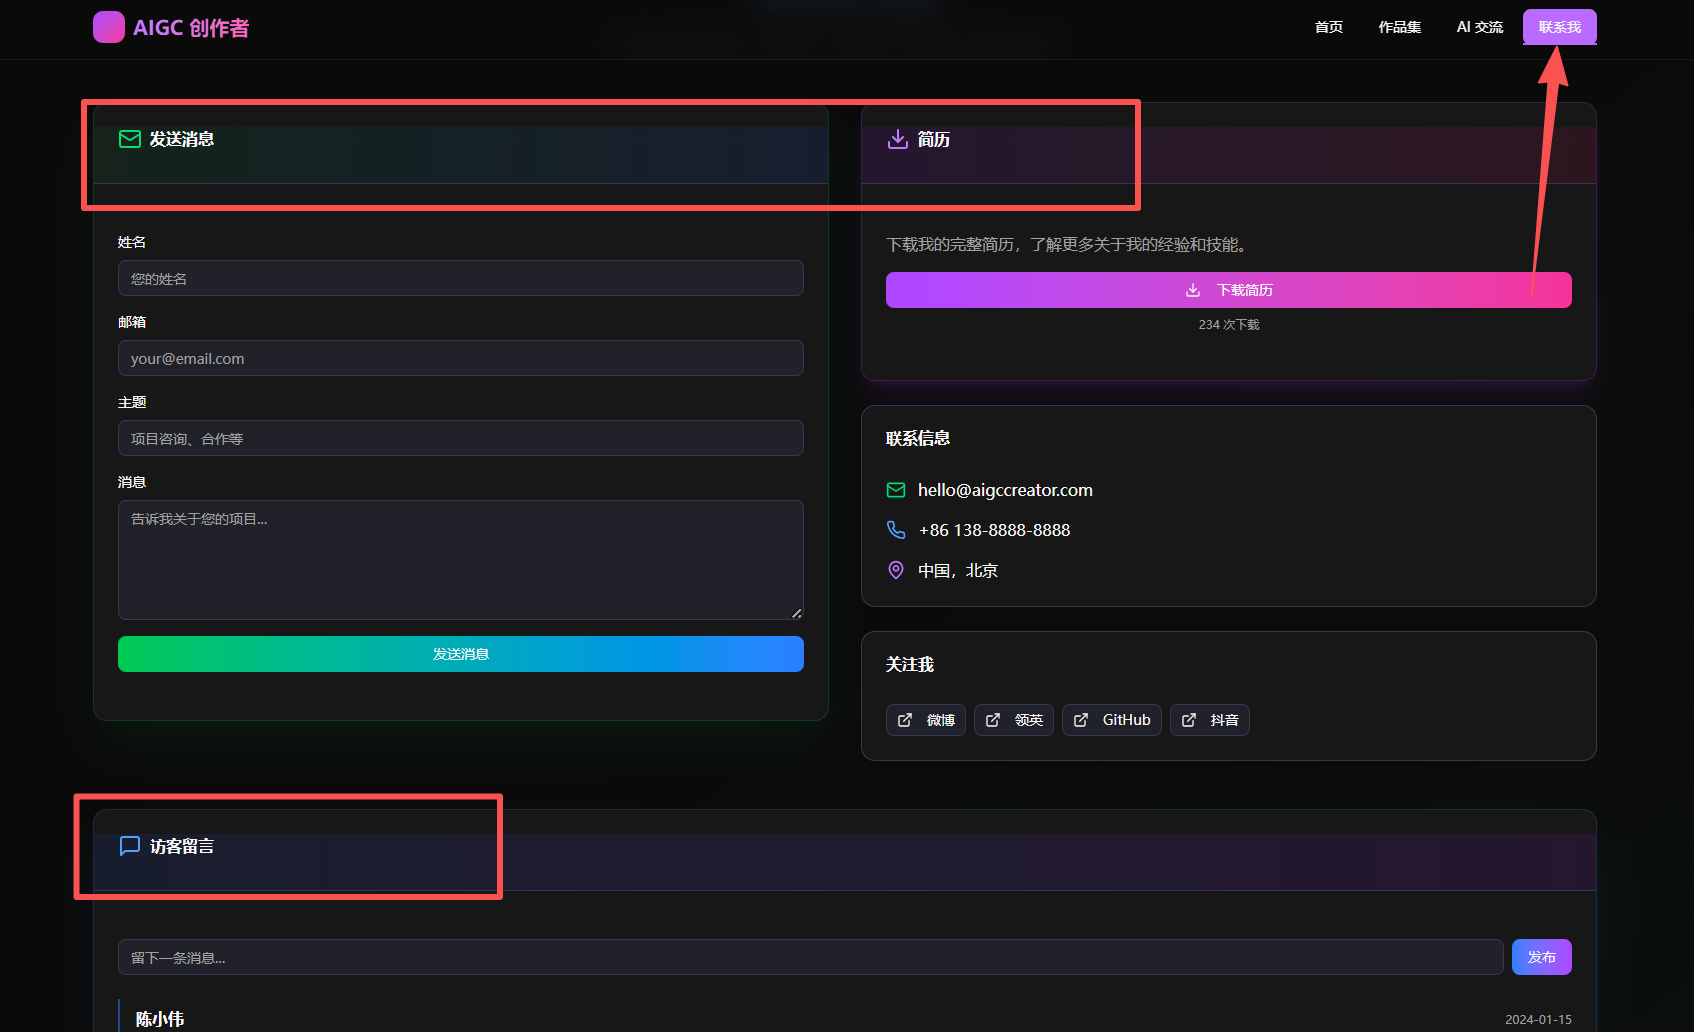
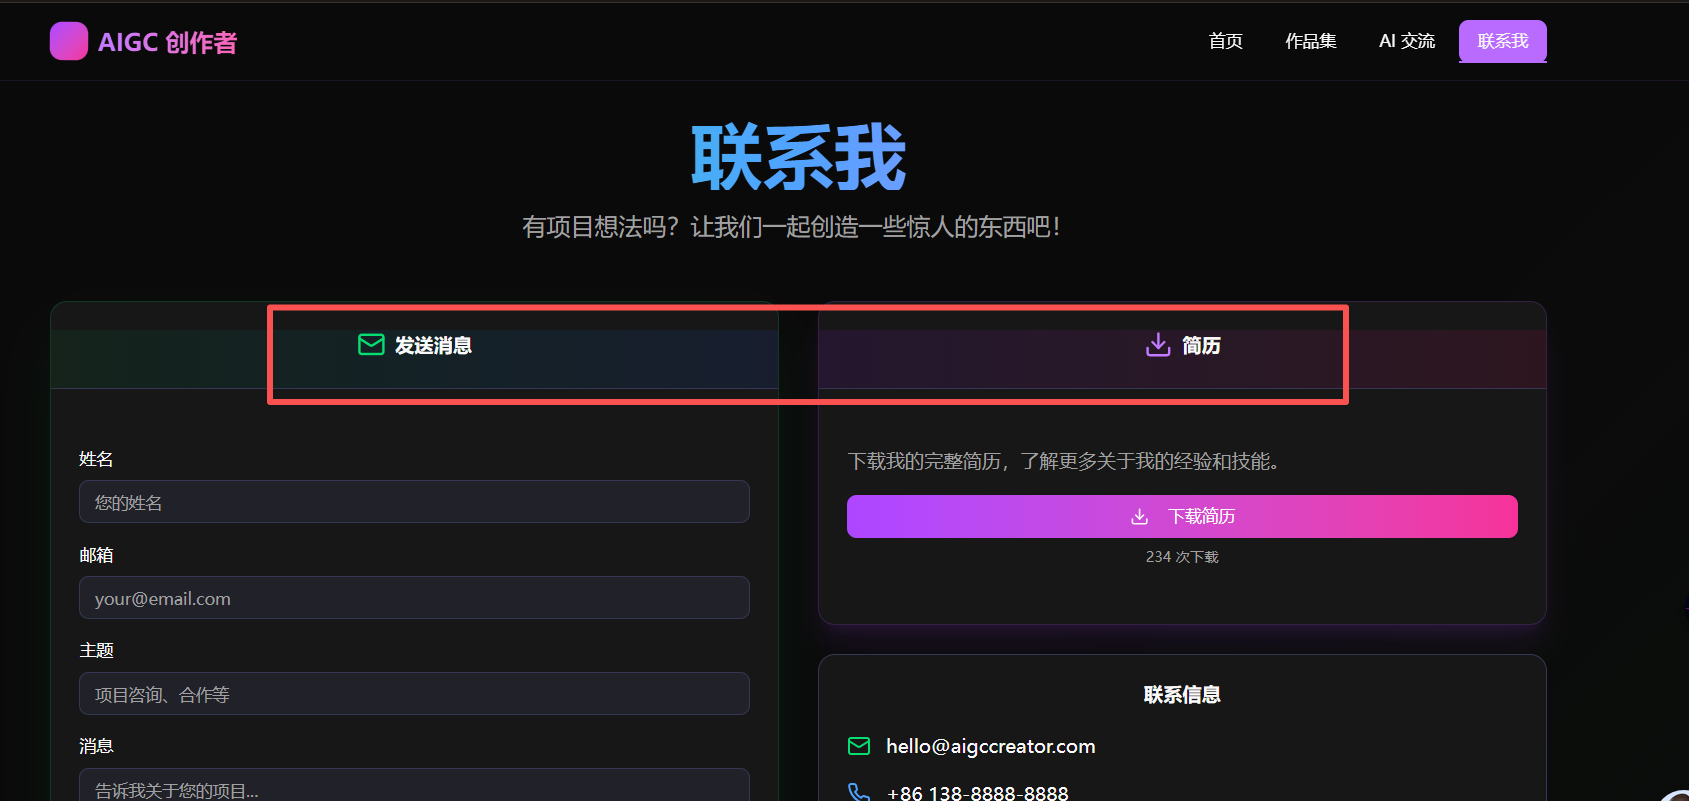
fix: 优化联系我页面所有小标题的垂直和水平居中

diff --git a/src/app/contact/page.tsx b/src/app/contact/page.tsx
@@ -85,7 +85,7 @@ export default function ContactPage() {
             transition={{ delay: 0.2 }}
           >
             <Card className="border-green-500/20 shadow-2xl shadow-green-500/10">
-              <CardHeader className="bg-gradient-to-r from-green-900/20 to-blue-900/20 border-b flex justify-center">
+              <CardHeader className="bg-gradient-to-r from-green-900/20 to-blue-900/20 border-b flex items-center justify-center">
                 <CardTitle className="flex items-center gap-2">
                   <Mail className="w-6 h-6 text-green-400" />
                   发送消息
@@ -152,7 +152,7 @@ export default function ContactPage() {
           >
             {/* Resume Download */}
             <Card className="border-purple-500/20 shadow-xl shadow-purple-500/10">
-              <CardHeader className="bg-gradient-to-r from-purple-900/20 to-pink-900/20 border-b flex justify-center">
+              <CardHeader className="bg-gradient-to-r from-purple-900/20 to-pink-900/20 border-b flex items-center justify-center">
                 <CardTitle className="flex items-center gap-2">
                   <Download className="w-6 h-6 text-purple-400" />
                   简历
@@ -177,7 +177,7 @@ export default function ContactPage() {
 
             {/* Contact Info */}
             <Card>
-              <CardHeader className="flex justify-center">
+              <CardHeader className="flex items-center justify-center">
                 <CardTitle>联系信息</CardTitle>
               </CardHeader>
               <CardContent className="space-y-4">
@@ -198,7 +198,7 @@ export default function ContactPage() {
 
             {/* Social Links */}
             <Card>
-              <CardHeader className="flex justify-center">
+              <CardHeader className="flex items-center justify-center">
                 <CardTitle>关注我</CardTitle>
               </CardHeader>
               <CardContent>
@@ -240,7 +240,7 @@ export default function ContactPage() {
           transition={{ delay: 0.4 }}
         >
           <Card className="border-blue-500/20 shadow-2xl shadow-blue-500/10">
-            <CardHeader className="bg-gradient-to-r from-blue-900/20 to-purple-900/20 border-b flex justify-center">
+            <CardHeader className="bg-gradient-to-r from-blue-900/20 to-purple-900/20 border-b flex items-center justify-center">
               <CardTitle className="flex items-center gap-2">
                 <MessageSquare className="w-6 h-6 text-blue-400" />
                 访客留言
